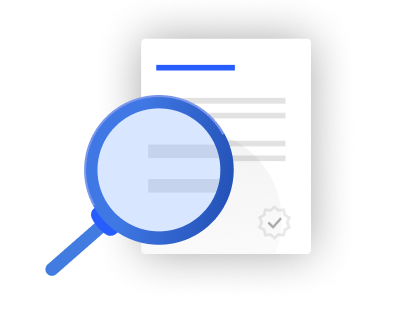
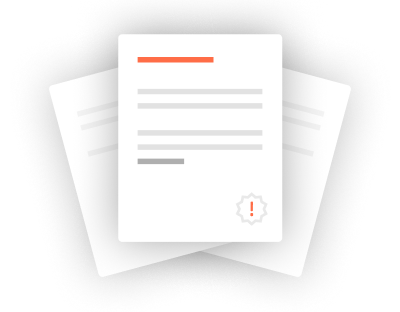
214

diff --git a/public/js/main.js b/public/js/main.js
@@ -443,6 +443,9 @@
       } else if (statusState === 'reviewing') {
         illustration = 'assets/illu_setup_3_reviewing.png';
       }
+      if (rejectedOverride) {
+        illustration = 'assets/illu_setup_rejected.png';
+      }
       heroEl.classList.toggle('is-illustration', Boolean(illustration));
       heroEl.style.backgroundImage = illustration ? `url('${illustration}')` : '';
     }
